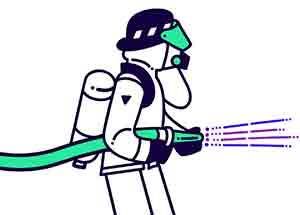
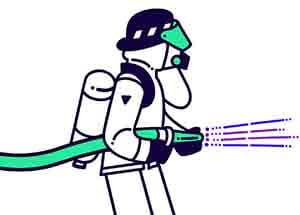
Optimize/compress images and use static()

diff --git a/app/retail/views.py b/app/retail/views.py
@@ -369,18 +369,15 @@ We want to nerd out with you a little bit more.  <a href="/slack">Join the Gitco
      ],
     }
 
-    tutorials = [
-    {
-        'img': '/static/v2/images/help/firehose.jpg',
+    tutorials = [{
+        'img': static('v2/images/help/firehose.jpg'),
         'url': 'https://medium.com/gitcoin/tutorial-leverage-gitcoins-firehose-of-talent-to-do-more-faster-dcd39650fc5',
         'title': _('Leverage Gitcoin’s Firehose of Talent to Do More Faster'),
-    },
-    {
-        'img': '/static/v2/images/help/tools.png',
+    }, {
+        'img': static('v2/images/help/tools.png'),
         'url': 'https://medium.com/gitcoin/tutorial-post-a-bounty-in-90-seconds-a7d1a8353f75',
         'title': _('Post a Bounty in 90 Seconds'),
-    },
-    ]
+    }]
 
     context = {
         'active': 'help',
